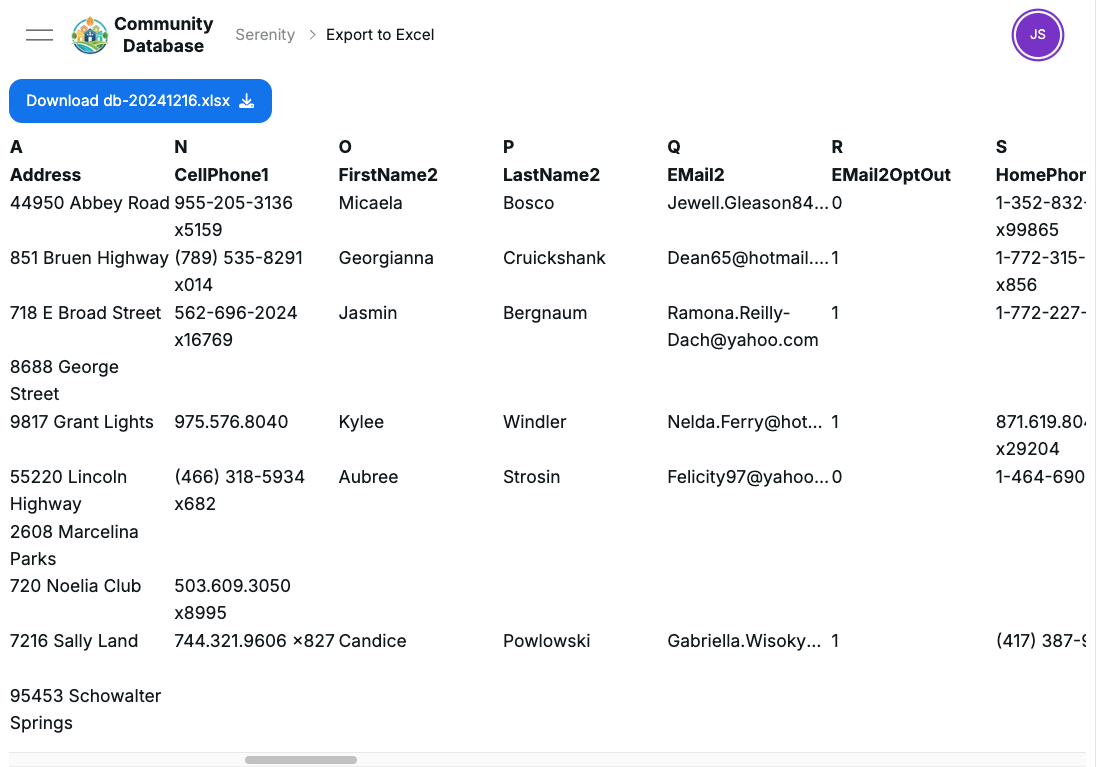
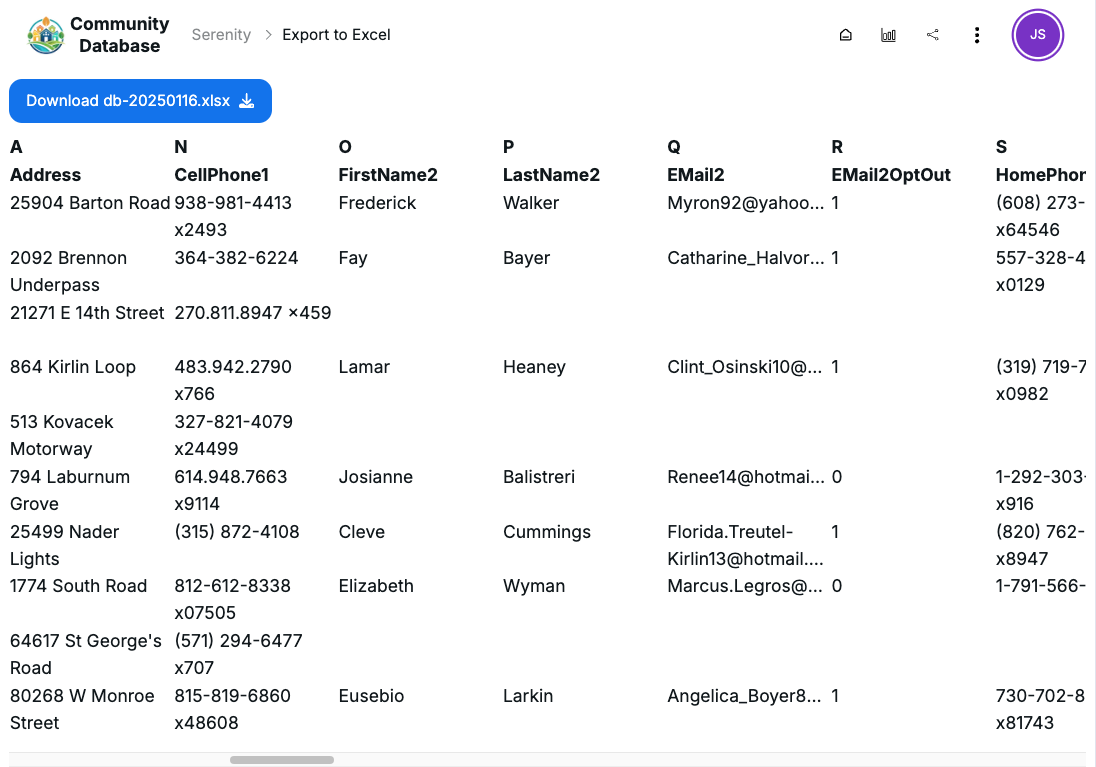
fix: update screenshots

diff --git a/src/app/lib/lcra-community/random-seed.ts b/src/app/lib/lcra-community/random-seed.ts
@@ -114,10 +114,11 @@ function genPaymentMethod() {
 /**
  * Generate fields for a single membership year
  *
- * @param year Two digit year (i.e. 21)
+ * @param year
  */
 function newMembershipYear(year: number) {
-  const pfx = `Y${year}`;
+  // year must be two digits only
+  const pfx = `Y${year % 100}`;
   const isMember = faker.datatype.boolean();
   if (!isMember) {
     return {
@@ -186,12 +187,14 @@ function newAddress() {
     };
   });
 
+  const currentYear = new Date().getFullYear();
+
   addr = {
     ...addr,
-    ...newMembershipYear(24),
-    ...newMembershipYear(23),
-    ...newMembershipYear(22),
-    ...newMembershipYear(21),
+    ...newMembershipYear(currentYear),
+    ...newMembershipYear(currentYear - 1),
+    ...newMembershipYear(currentYear - 2),
+    ...newMembershipYear(currentYear - 3),
   };
   return addr;
 }

diff --git a/cypress/e2e/landing-screenshot.cy.ts b/cypress/e2e/landing-screenshot.cy.ts
@@ -67,7 +67,7 @@ describe('take screenshots for landing screen', () => {
 
     cy.clickHeaderMoreMenu();
     cy.clickRoleMenuItem('Edit Membership Detail');
-    cy.findByRole('dialog').contains('Edit Membership Detail');
+    cy.findByRole('dialog').contains('Membership Detail');
     takeScreenshot('membership-editor');
     cy.clickButton('Cancel');
 
@@ -81,7 +81,7 @@ describe('take screenshots for landing screen', () => {
     // Wait for graphs to be loaded
     cy.get('div.grid div[data-loaded="true"]', { timeout }).should(
       'have.length',
-      4
+      3
     );
     cy.scrollTo(0, 370);
     takeScreenshot('dashboard');

diff --git a/cypress/support/common.ts b/cypress/support/common.ts
@@ -15,5 +15,8 @@ Cypress.Commands.add('clickRoleMenuItem', (itemLabel: string) => {
 });
 
 Cypress.Commands.add('clickButton', (buttonText: string) => {
-  cy.get('button[type="button"]').contains(new RegExp(buttonText)).click();
+  cy.get('button[type="button"]')
+    .contains(new RegExp(buttonText))
+    // Allow clicking outside of viewport
+    .click({ force: true });
 });
